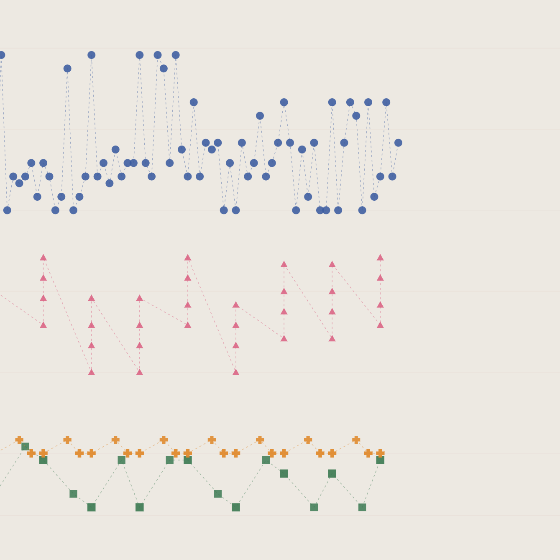
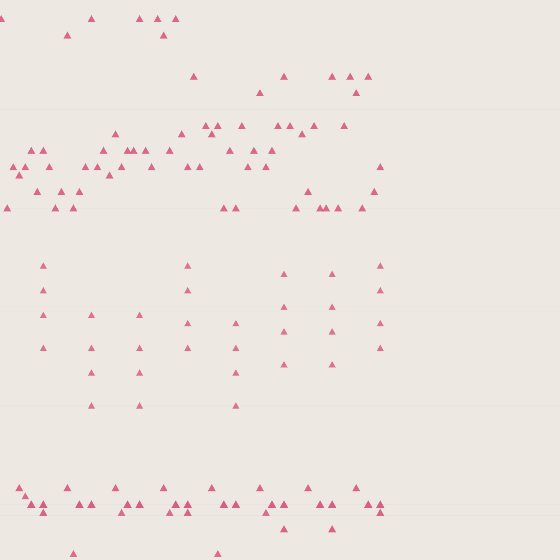
fix: Music layer triggers select notes instead of gating visibility
The layer trigger was hiding Music layers whenever no note envelope was
active, which is why the Note Plotter looked dead. For Music-category layers
the trigger now means "which notes does this visual read" — instrument,
channel and note range — and never touches visibility or opacity.

- isMusicLayer() bypasses the midiMode visibility and opacity gating
- all five Music visuals filter their note stream through layer.triggerMapping
- the Layer Triggers panel becomes "Note Source" for Music layers: MIDI only,
  no Audio/Rhythm/Off tabs, with copy saying what it actually does
- an unmapped Note Plotter line now shows every note the layer passed rather
  than guessing channel N-1, which silently showed nothing for rigs that do
  not sit on channels 1-5; only line 1 is on by default so lines cannot stack
- preview regenerated at the real defaults

diff --git a/src/App.tsx b/src/App.tsx
@@ -64,7 +64,13 @@ import {
   Redo2
 } from 'lucide-react';
 import { motion, AnimatePresence, Reorder } from 'motion/react';
-import { parseGeneratives, WebGLGenerativeRenderer, GenerativeDefinition, BUILTIN_PALETTES, GenerativeElement, ColorPalettePreset, GENERATIVE_CATEGORY_ORDER } from './lib/generatives';
+import { parseGeneratives, WebGLGenerativeRenderer, GenerativeDefinition, BUILTIN_PALETTES, GenerativeElement, ColorPalettePreset, GENERATIVE_CATEGORY_ORDER, GENERATIVE_CATEGORIES } from './lib/generatives';
+
+/** Music visuals read the MIDI note stream directly. Their layer trigger picks
+ *  WHICH notes to read (instrument / channel / range) instead of gating
+ *  visibility the way it does for every other layer type. */
+const isMusicLayer = (l: { type?: string; generativeId?: string | null }) =>
+  l.type === 'generative' && !!l.generativeId && GENERATIVE_CATEGORIES[l.generativeId] === 'Music';
 import { engine, AudioStemNode } from './lib/audioEngine';
 import { AudioSpectrogram } from './components/AudioSpectrogram';
 import { Waves } from './components/Waves';
@@ -3845,7 +3851,8 @@ export default function App() {
 
       const hasActiveEffect = layer.mappings.some(m => (m.active || m.manualActive) && !m.isMuted);
       let isVisibleNormally = layer.isVisible;
-      if (layer.midiMode) {
+      // Music layers stay on: their trigger selects notes, it does not show/hide the layer.
+      if (layer.midiMode && !isMusicLayer(layer)) {
           // Advance mode: layer is always visible
           if (layer.videoTriggerMode === 'advance' && layer.type === 'video') {
               isVisibleNormally = true;
@@ -9674,6 +9681,27 @@ export default function App() {
               if (liveMidi || !demoOn) { noteHist = mnBuf.history; noteActive = mnBuf.active; }
               else { advanceDemoMusic(nowMs); noteHist = _demo.hist; noteActive = _demo.active; }
 
+              // The layer trigger is this visual's note source: instrument, channel and
+              // note range decide WHAT it reads. (It does not gate visibility here.)
+              {
+                  const lt = layer.triggerMapping;
+                  const lo = lt?.noteStart ?? 0, hi = lt?.noteEnd ?? 127;
+                  const chs = lt?.channels;
+                  const narrowed = (lt?.devices?.length ?? 0) > 0
+                      || (!!chs && chs.length > 0 && chs.length < 16)
+                      || lo > 0 || hi < 127;
+                  if (narrowed) {
+                      const passes = (e: { ch: number; note: number; dev: string; devName: string }) =>
+                          matchesDevice(lt?.devices, e.dev, e.devName)
+                          && (!chs || chs.length === 0 || chs.includes(e.ch))
+                          && e.note >= lo && e.note <= hi;
+                      noteHist = noteHist.filter(passes);
+                      const filteredActive = new Map<string, MidiActiveNote>();
+                      for (const [k, a] of noteActive) if (passes(a)) filteredActive.set(k, a);
+                      noteActive = filteredActive;
+                  }
+              }
+
               if (def.uuid === 'pitch-clock-1') {
                   const bg = resolvedGenerativeColors['background'] || '#0a0a12';
                   const cRing = resolvedGenerativeColors['ring'] || '#3a3a52';
@@ -10248,7 +10276,8 @@ export default function App() {
                   const tStart = Math.max(st.viewStart, tEnd - spanMs);
 
                   // Per-line MIDI routing. A line's source is the trigger mapping created when
-                  // you Zap it (Instrument / Channel / Note Range). Unmapped -> channel N-1.
+                  // you Zap it (Instrument / Channel / Note Range). An unmapped line shows
+                  // everything the layer trigger passed through — never nothing.
                   const lineOf = (n: number) => {
                       const src: any = layer.generativeMappings?.find((m: any) => m.id === `line_${n}`);
                       // Read the BASE value, not the modulated one: a line's trigger exists to pick
@@ -10258,11 +10287,10 @@ export default function App() {
                       return {
                           shape,
                           colour: resolvedGenerativeColors[`line_${n}`] || '#333333',
-                          match: (e: MidiNoteEvt) => src
-                              ? matchesDevice(src.devices, e.dev, e.devName)
+                          match: (e: MidiNoteEvt) => !src
+                              || (matchesDevice(src.devices, e.dev, e.devName)
                                   && (!src.channels || src.channels.length === 0 || src.channels.includes(e.ch))
-                                  && e.note >= (src.noteStart ?? 0) && e.note <= (src.noteEnd ?? 127)
-                              : e.ch === n - 1,
+                                  && e.note >= (src.noteStart ?? 0) && e.note <= (src.noteEnd ?? 127)),
                       };
                   };
                   const lines = [1, 2, 3, 4, 5].map(lineOf).filter(l => l.shape > 0);
@@ -12212,7 +12240,8 @@ export default function App() {
       }
 
       let opacityMult = 1.0;
-      if (layer.midiMode) {
+      // Music layers keep full opacity: their trigger selects notes, not visibility.
+      if (layer.midiMode && !isMusicLayer(layer)) {
           // Advance mode: always visible
           if (layer.videoTriggerMode === 'advance' && layer.type === 'video') {
               opacityMult = 1.0;
@@ -15562,16 +15591,23 @@ return (
                     const layerAudioEngine = layerTarget.audioMapping?.engine || 'level';
                     return (
                       <div className="space-y-4">
-                        <h3 className="text-[10px] font-bold uppercase tracking-widest text-red-400 border-b border-white/5 pb-2 mb-2">Layer Triggers</h3>
+                        <h3 className="text-[10px] font-bold uppercase tracking-widest text-red-400 border-b border-white/5 pb-2 mb-2">
+                          {isMusicLayer(layerTarget) ? 'Note Source' : 'Layer Triggers'}
+                        </h3>
+                        {isMusicLayer(layerTarget) && (
+                          <p className="text-[9px] opacity-30 leading-relaxed -mt-2">
+                            Picks which notes this visual reads. It does not show or hide the layer.
+                          </p>
+                        )}
                         <div className="space-y-6">
-                        <div className="flex bg-black/40 border border-white/10 rounded overflow-hidden">
-                            <button 
+                        <div className={`flex bg-black/40 border border-white/10 rounded overflow-hidden ${isMusicLayer(layerTarget) ? 'hidden' : ''}`}>
+                            <button
                               onClick={() => setLayers(prev => prev.map(l => l.id === layerTarget.id ? { ...l, midiMode: true, audioMapping: { ...(l.audioMapping || DEFAULT_AUDIO_MAPPING), enabled: false }, rhythmMapping: { ...(l.rhythmMapping || { enabled: false, pattern: '4-on-the-Floor', bpm: 120, customPattern: new Array(16).fill(false) }), enabled: false } } : l))}
                               className={`flex-1 py-1.5 text-[9px] uppercase tracking-widest transition-colors ${layerTarget.midiMode && !layerTarget.audioMapping?.enabled && !layerTarget.rhythmMapping?.enabled ? 'bg-red-600 text-white' : 'text-white/40 hover:bg-transparent'}`}
                             >
                               MIDI
                             </button>
-                            <button 
+                            <button
                               onClick={() => setLayers(prev => prev.map(l => l.id === layerTarget.id ? { ...l, midiMode: true, rhythmMapping: { ...(l.rhythmMapping || { enabled: false, pattern: '4-on-the-Floor', bpm: 120, customPattern: new Array(16).fill(false) }), enabled: false }, audioMapping: { ...(l.audioMapping || DEFAULT_AUDIO_MAPPING), enabled: true } } : l))}
                               className={`flex-1 py-1.5 text-[9px] uppercase tracking-widest transition-colors ${layerTarget.midiMode && layerTarget.audioMapping?.enabled ? 'bg-red-600 text-white' : 'text-white/40 hover:bg-transparent'}`}
                             >
@@ -15592,12 +15628,12 @@ return (
                             </button>
                           </div>
 
-                          {!layerTarget.midiMode ? (
+                          {!layerTarget.midiMode && !isMusicLayer(layerTarget) ? (
                               <div className="p-4 text-center mt-4">
                                 <p className="text-[10px] uppercase font-bold tracking-widest opacity-40">Layer triggers disabled</p>
                                 <p className="text-[9px] opacity-20 mt-2">Activate MIDI, Audio, or Rhythm above to modulate layer visibility.</p>
                               </div>
-                          ) : layerTarget.rhythmMapping?.enabled ? (
+                          ) : (layerTarget.rhythmMapping?.enabled && !isMusicLayer(layerTarget)) ? (
                             <div className="space-y-4">
                                 <div className="grid grid-cols-2 gap-4">
                                   <div className="flex flex-col gap-1">
@@ -15628,7 +15664,7 @@ return (
                                   onUpdateNote={(field, val) => setLayers(prev => prev.map(l => l.id === layerTarget.id ? { ...l, rhythmMapping: { ...l.rhythmMapping!, noteSettings: { ...(l.rhythmMapping!.noteSettings || DEFAULT_NOTE_SETTINGS), [field]: val } } } : l))}
                                 />
                             </div>
-                          ) : layerTarget.audioMapping?.enabled ? (
+                          ) : (layerTarget.audioMapping?.enabled && !isMusicLayer(layerTarget)) ? (
                             <div className="space-y-4">
                                <label className="text-[10px] uppercase tracking-widest opacity-80 font-bold text-red-500">Audio Visibility Trigger</label>
 
@@ -15720,8 +15756,8 @@ return (
                                )}
                             </div>
                           ) : (
-                            <MidiConfigUI 
-                              label="Layer Visibility Trigger"
+                            <MidiConfigUI
+                              label={isMusicLayer(layerTarget) ? 'Notes Read By This Visual' : 'Layer Visibility Trigger'}
                               mapping={layerTarget.triggerMapping || DEFAULT_TRIGGER_MAPPING}
                               isLearnActive={midiLearnTarget?.layerId === layerTarget.id && !midiLearnTarget?.effectId ? midiLearnTarget : false}
                               onToggleLearn={(field) => setMidiLearnTarget(prev => prev?.layerId === layerTarget.id && !prev?.effectId && prev?.field === field ? null : { layerId: layerTarget.id, field })}

diff --git a/src/lib/generatives.ts b/src/lib/generatives.ts
@@ -2167,9 +2167,9 @@ void main(void) {
   "defaultPaletteId": "plotter_bands",
   "parameters": [
     { "name": "line_1",    "min": 0.0, "max": 5.0,   "default": 3.0,  "type": "number" },
-    { "name": "line_2",    "min": 0.0, "max": 5.0,   "default": 1.0,  "type": "number" },
-    { "name": "line_3",    "min": 0.0, "max": 5.0,   "default": 2.0,  "type": "number" },
-    { "name": "line_4",    "min": 0.0, "max": 5.0,   "default": 5.0,  "type": "number" },
+    { "name": "line_2",    "min": 0.0, "max": 5.0,   "default": 0.0,  "type": "number" },
+    { "name": "line_3",    "min": 0.0, "max": 5.0,   "default": 0.0,  "type": "number" },
+    { "name": "line_4",    "min": 0.0, "max": 5.0,   "default": 0.0,  "type": "number" },
     { "name": "line_5",    "min": 0.0, "max": 5.0,   "default": 0.0,  "type": "number" },
     { "name": "note_size", "min": 0.3, "max": 3.0,   "default": 1.0,  "type": "number" },
     { "name": "contour",   "min": 0.0, "max": 1.0,   "default": 0.0,  "type": "number" },
